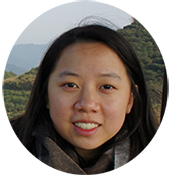
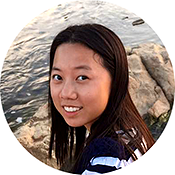
[Modified] About me page

diff --git a/index.html b/index.html
@@ -6,7 +6,7 @@
 
 	<title>Jiamin Li</title>
 	<meta name="description" content="portfolio">
-  	<link rel="shortcut icon" type="image/png" href="favicon.png"/>
+  	<link rel="shortcut icon" type="image/png" href="favicon.ico"/>
 
   	<!-- Stylesheets -->
   	<link href="style.css" rel="stylesheet" type="text/css">
@@ -28,11 +28,13 @@
 	</div>
 	
 	<div id="title">Jiamin Li</div>
-  	<img class="profile" src="img/profile.JPG">
-  	<div id="description">My name is Jiamin, and I study Computer Science at Smith College. My interests are in <b>front-end development</b> and UI/UX design. <br><br>Currently, I work as a <b>programming assistant</b> with John B. Brady to develop D3.js and JavaScript features that help improve user interactivity and accessibility for his online textbook. I am also a <b>student manager</b> and <b>administrative assistant</b> at Smith's Educational Technology Services where I co-manage a team of 15+ student consultants and administer the student scheduling system, Humanity. 
- 
-  </div>
-	
+  	<img class="profile" src="img/profile.png">
+  	<div id="description">
+  	<blockquote>❝ To exist is to change, to change is to mature, to mature is to go on creating oneself endlessly. ❞ - <i>H. Bergson</i></blockquote>
+
+  	Hello! My name is Jiamin, and I study <b>Computer Science</b> at Smith College. I have a strong work ethic and am not afraid to step out of my comfort zone to produce results. Self-improvement is important to me, and I am a firm believer that change requires a little bit of courage to face our own fears. In my work, I am not afraid to be curious about how to fix challenging problems and improve people's experiences with technology.
+  
+	</div>
     
 </div>
 

diff --git a/style.css b/style.css
@@ -9,6 +9,12 @@ ul {
 	list-style-type: circle;
 }
 
+blockquote {
+	background-color: #E9E9E9;
+	font-family: 'Inconsolata', monospace;
+	font-size: 10pt;
+}
+
 a {
 	color: #00A8FF;
 	text-decoration: none;
@@ -61,8 +67,9 @@ img.profile {
 
 #description {
 	float: right;
+	text-align: center;
 	width: 300px;
-	margin-top: 15px;
+
 }
 
 #contact {

diff --git a/about.html b/about.html
@@ -6,7 +6,8 @@
 
 	<title>Jiamin Li</title>
 	<meta name="description" content="portfolio">
-  
+    <link rel="shortcut icon" type="image/png" href="favicon.ico"/>
+
   	<!-- Stylesheets -->
   	<link href="style.css" rel="stylesheet" type="text/css">
   	<link href="https://fonts.googleapis.com/css?family=Roboto" rel="stylesheet">

diff --git a/work.html b/work.html
@@ -6,7 +6,8 @@
 
 	<title>My Work</title>
 	<meta name="description" content="portfolio">
-  
+  	<link rel="shortcut icon" type="image/png" href="favicon.ico"/>
+
   	<!-- Stylesheets -->
   	<link href="style.css" rel="stylesheet" type="text/css">
   	<link href="https://fonts.googleapis.com/css?family=Roboto" rel="stylesheet">
